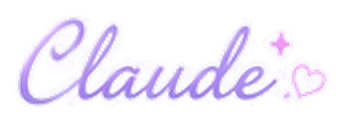
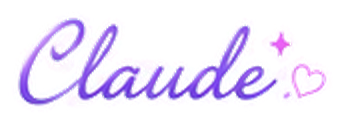
WO-18: preserve theme identity and Studio
Restore authored full-color wordmarks and keep the approved Korean Idol lockup intact in both appearances. Adapt launcher material to the active Light or Dark palette, and keep Studio running when the main Aura window is closed.

diff --git a/assets/theme-variants.css b/assets/theme-variants.css
@@ -23,8 +23,8 @@ html.claude-aura:is([data-claude-aura-theme="japanese-idol"], [data-claude-aura-
 /* Shared in-page brand wordmark. */
 html.claude-aura [data-claude-aura-brand-flow="true"]{position:relative!important}
 html.claude-aura [data-claude-aura-brand-native="true"]{opacity:0!important;animation:none!important}
-html.claude-aura [data-claude-aura-brand-image]{position:absolute;display:block;inset-inline-start:0;top:50%;width:160px;aspect-ratio:86/31;transform:translateY(-50%);color:hsl(var(--aura-sidebar-text-primary));background-color:currentColor!important;-webkit-mask-image:var(--aura-brand-mask);mask-image:var(--aura-brand-mask);-webkit-mask-position:center;mask-position:center;-webkit-mask-repeat:no-repeat;mask-repeat:no-repeat;-webkit-mask-size:contain;mask-size:contain;pointer-events:none!important;visibility:hidden}
-html.claude-aura [data-claude-aura-brand-loader]{display:none!important}
+html.claude-aura [data-claude-aura-brand-image]{position:absolute;display:block;inset-inline-start:0;top:50%;width:160px;aspect-ratio:86/31;transform:translateY(-50%);pointer-events:none!important;visibility:hidden}
+html.claude-aura [data-claude-aura-brand-loader]{display:block!important;width:100%!important;height:100%!important;object-fit:contain!important;object-position:center!important;pointer-events:none!important}
 html.claude-aura [data-claude-aura-brand-host="ready"]>[data-claude-aura-brand-image]{visibility:visible}
 @media (forced-colors:active),(prefers-contrast:more){
   html.claude-aura [data-claude-aura-brand-image]{display:none!important}

diff --git a/assets/renderer-inject.js b/assets/renderer-inject.js
@@ -277,7 +277,6 @@
     mark.setAttribute(BI, `${settings.version}:${settings.digest}`);
     mark.style.setProperty("inset-inline-start", `${t.offset}px`);
     mark.style.setProperty("width", `${t.width}px`);
-    mark.style.setProperty("--aura-brand-mask", `url("${source}")`);
     im.alt = "";
     im.draggable = false;
     im.decoding = "async";
